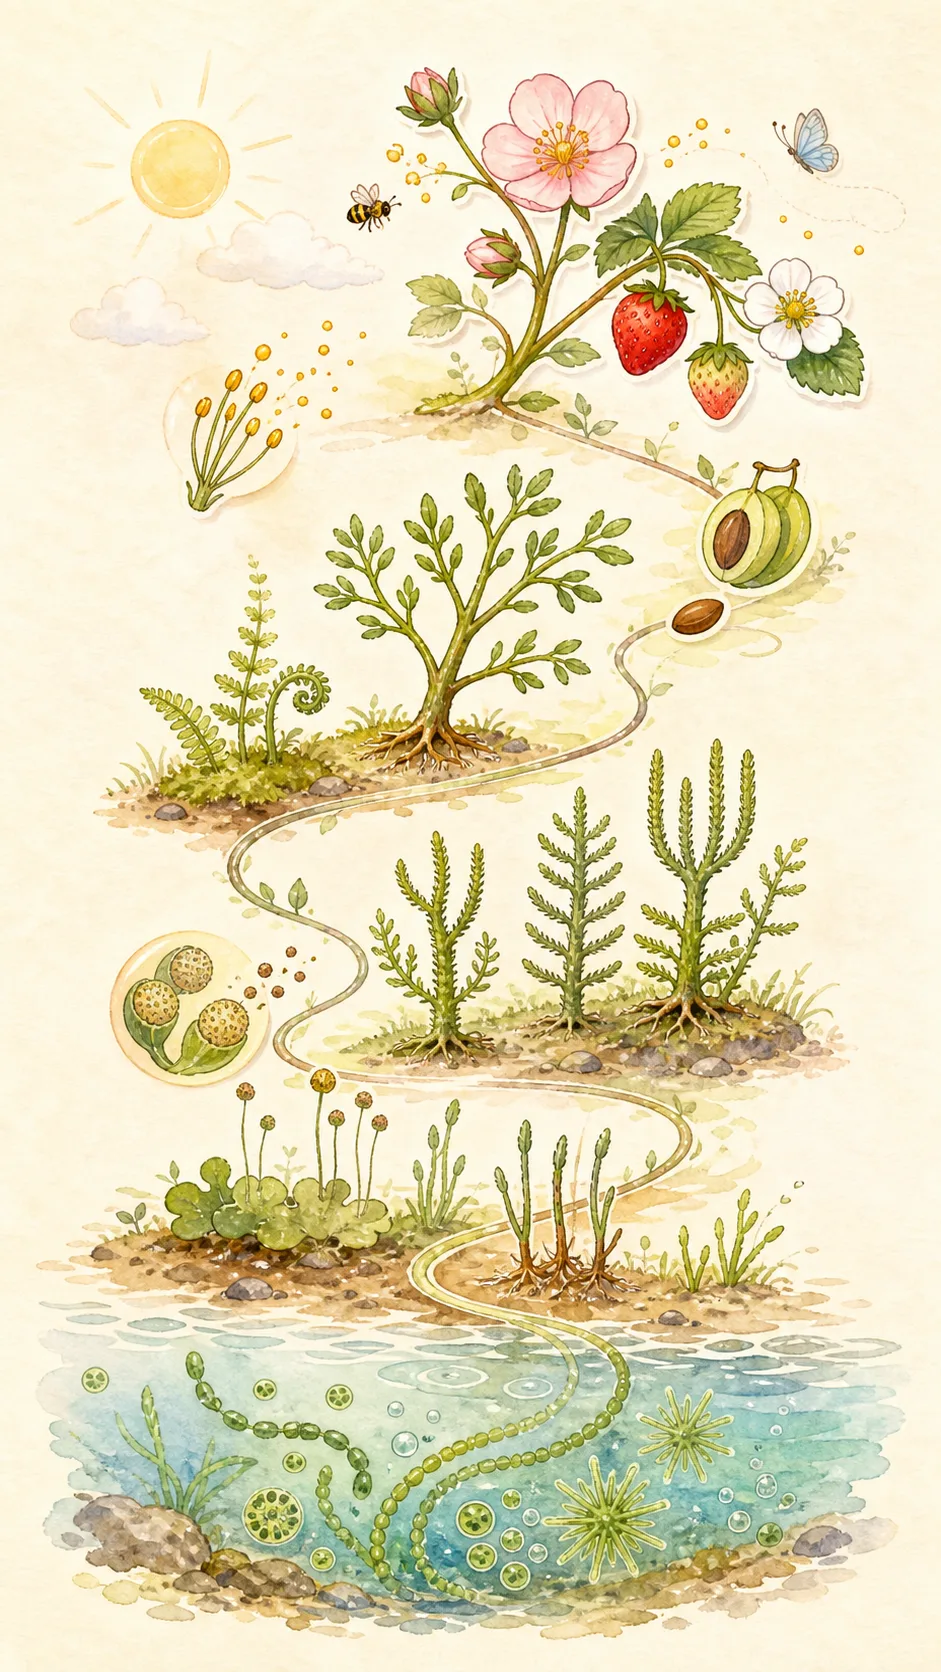
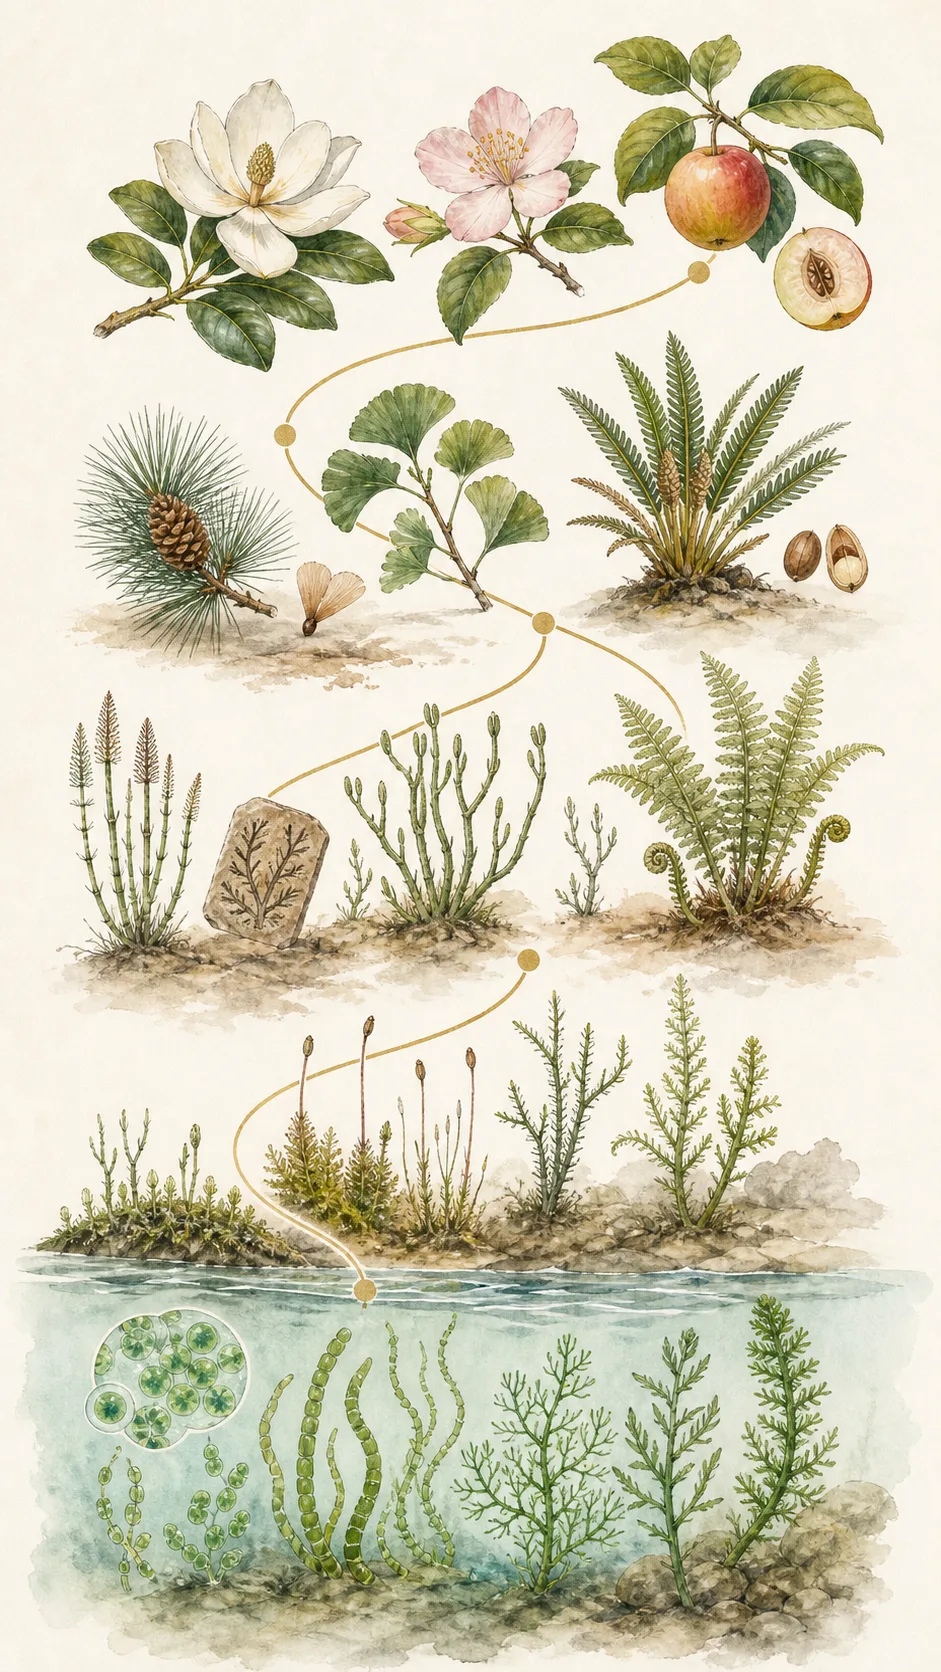
Shift plant visuals to popular science style

diff --git a/index.html b/index.html
@@ -4,7 +4,7 @@
       <meta charset="UTF-8" />
       <meta name="viewport" content="width=device-width, initial-scale=1.0" />
       <title>By Cherry | 科学、课程与 AI</title>
-      <meta name="description" content="By Cherry 是一个可爱插画风的个人网站，收录科学教育、AI 学习工具、项目制课程和创作工作流。" />
+      <meta name="description" content="By Cherry 是一个清爽科普风的个人网站，收录科学教育、AI 学习工具、项目制课程和创作工作流。" />
       <meta name="robots" content="index, follow" />
       <meta name="theme-color" content="#F5F1EA" />
       <meta name="color-scheme" content="light" />
@@ -52,7 +52,7 @@
               "url": "https://bycherry.me/",
               "name": "By Cherry",
               "alternateName": "Bycherry",
-              "description": "By Cherry 是一个可爱插画风的个人网站，收录科学教育、AI 学习工具、项目制课程和创作工作流。",
+              "description": "By Cherry 是一个清爽科普风的个人网站，收录科学教育、AI 学习工具、项目制课程和创作工作流。",
               "inLanguage": "zh-CN",
               "image": "https://bycherry.me/social-preview.png",
               "publisher": {

diff --git a/src/app/App.tsx b/src/app/App.tsx
@@ -17,7 +17,7 @@ import { navigateClient, shouldUseClientNavigation } from "./navigation";
 
 const siteTitle = "By Cherry";
 const homeTitle = "科学、课程与 AI";
-const defaultDescription = "By Cherry 是一个可爱插画风的个人网站，收录科学教育、AI 学习工具、项目制课程和创作工作流。";
+const defaultDescription = "By Cherry 是一个清爽科普风的个人网站，收录科学教育、AI 学习工具、项目制课程和创作工作流。";
 const siteUrl = "https://bycherry.me";
 const socialImageUrl = `${siteUrl}/social-preview.png`;
 

diff --git a/README.md b/README.md
@@ -1,11 +1,11 @@
 # By Cherry
 
-Cute illustrated personal homepage for `bycherry.me`, built with React, Vite, and Tailwind CSS.
-The app uses custom inline illustrations and local React components instead of a generated component library.
+Popular-science personal homepage for `bycherry.me`, built with React, Vite, and Tailwind CSS.
+The app uses custom science visuals and local React components instead of a generated component library.
 
 ## Features
 
-- Warm illustrated creator homepage
+- Clean popular-science creator homepage
 - Portfolio cards for science, course design, and AI tools
 - Interactive gene expression visualization
 - Plant evolution timeline with classroom study cards